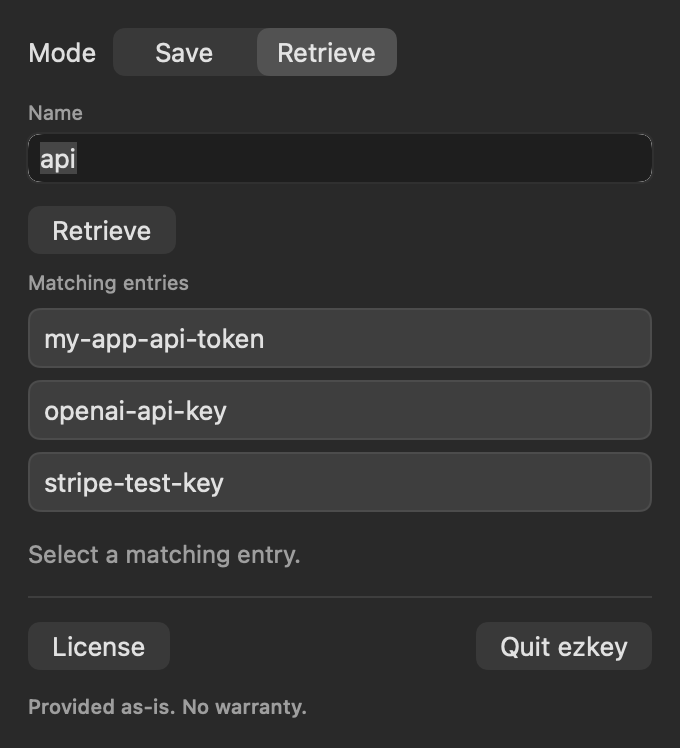
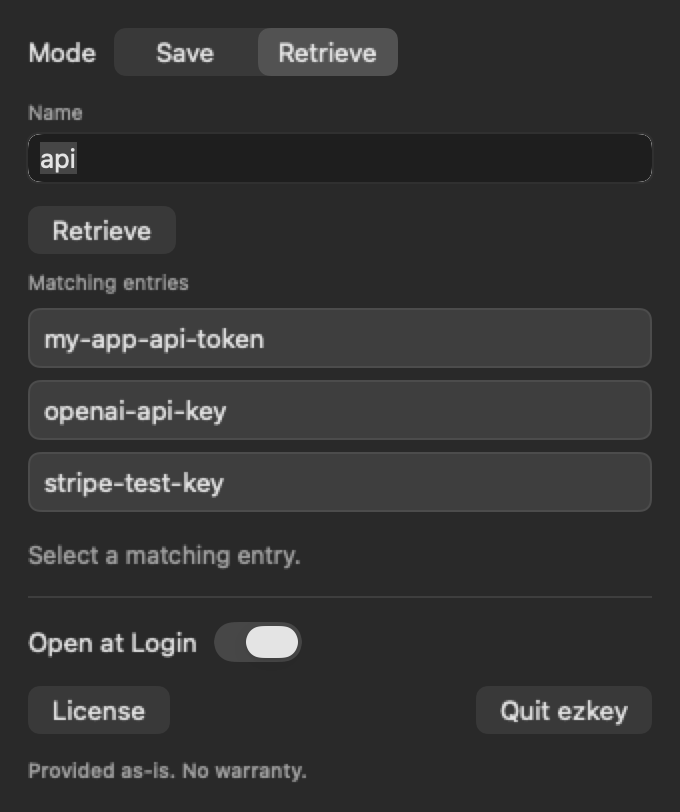
fix: render site screenshots at 2x on any display
The renderer used the main display's scale, so an external 1x monitor
halved the images. Re-rendered: the panels now show Open at Login.

diff --git a/Sources/ezkey/MarketingRender.swift b/Sources/ezkey/MarketingRender.swift
@@ -129,9 +129,23 @@ enum MarketingRender {
         RunLoop.main.run(until: Date(timeIntervalSinceNow: 0.05))
 
         let bounds = hosting.bounds
-        guard let bitmap = hosting.bitmapImageRepForCachingDisplay(in: bounds) else {
+        // Fixed 2x so the site images match on any display, Retina or not.
+        let scale: CGFloat = 2
+        guard let bitmap = NSBitmapImageRep(
+            bitmapDataPlanes: nil,
+            pixelsWide: Int(bounds.width * scale),
+            pixelsHigh: Int(bounds.height * scale),
+            bitsPerSample: 8,
+            samplesPerPixel: 4,
+            hasAlpha: true,
+            isPlanar: false,
+            colorSpaceName: .deviceRGB,
+            bytesPerRow: 0,
+            bitsPerPixel: 0
+        ) else {
             throw RenderError.noBitmap
         }
+        bitmap.size = bounds.size
         hosting.cacheDisplay(in: bounds, to: bitmap)
         let image = NSImage(size: bounds.size)
         image.addRepresentation(bitmap)
